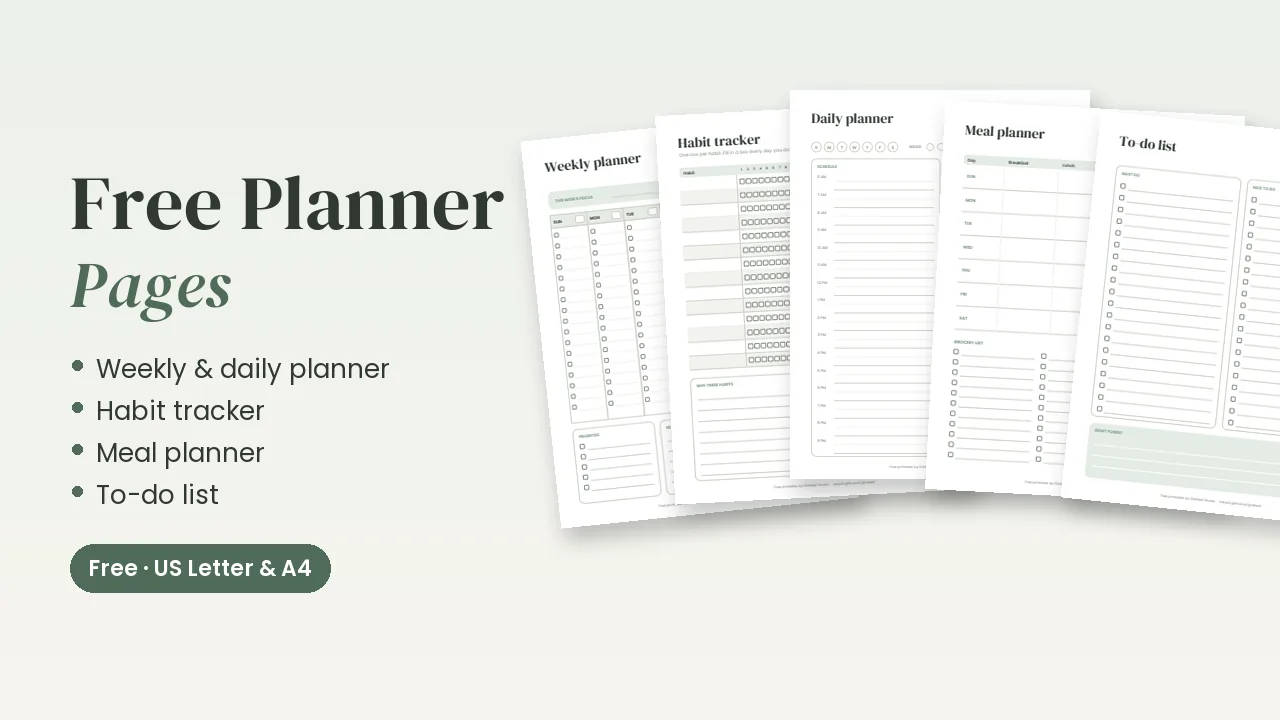
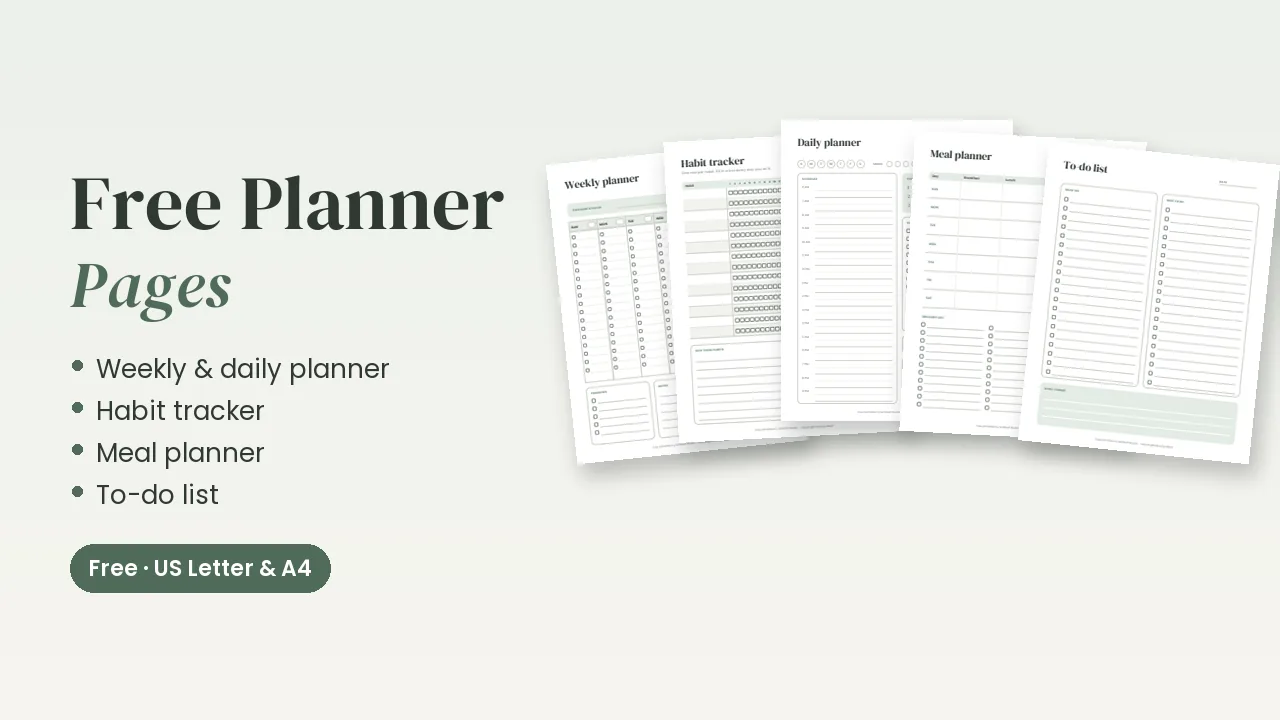
Link new products to Gumroad

Changed region(s): [[0.4062, 0.1528, 1.0, 0.7639], [0.75, 0.3361, 0.7812, 0.4278], [0.875, 0.1833, 0.9375, 0.2139]]

diff --git a/2027-printable-planner/index.html b/2027-printable-planner/index.html
@@ -12,7 +12,7 @@
 <main class="wrap"><section class="hero grid g2" style="align-items:center"><div><span class="tag">Premium printable</span><h1>2027 Printable Planner</h1>
 <p class="lead">A calm, dated planner for 2027: monthly calendars, habit trackers and 53 weekly pages. Print it at home, or use it in GoodNotes. Every page is linked.</p>
 <div class="price">$7</div>
-<div class="btns"><a class="btn" href="https://gridleafstudio.gumroad.com" rel="noopener">Get the 2027 planner</a></div>
+<div class="btns"><a class="btn" href="https://gridleafstudio.gumroad.com/l/printable2027" rel="noopener">Get the 2027 planner</a></div>
 <p class="note">Instant download · PDF · 88 pages · US Letter &amp; A4</p></div>
 <img src="/gridleaf/assets/img/printable-planner-2027-cover.webp" alt="2027 printable planner pages" loading="lazy" width="1280" height="720" class="shot"></section>
 <section class="grid g2"><div><h2>What's inside</h2><ul class="feat"><li>Hyperlinked contents page with a tap-to-open grid of all 53 weeks</li><li>2027 at a glance: tap a month or a week</li><li>2027 goals (health, career, money, relationships, growth, fun)</li><li>Birthdays &amp; important dates</li><li>12 dated monthly calendars with week tabs, focus list and notes</li><li>12 monthly goals &amp; habit tracker pages (dated, with weekdays)</li><li>53 dated weekly pages: focus, 7 day boxes and a to-do list</li><li>Lined notes and dot-grid pages</li><li>US Letter (Sunday start) and A4 (Monday start)</li></ul></div>

diff --git a/digital-notebook/index.html b/digital-notebook/index.html
@@ -12,7 +12,7 @@
 <main class="wrap"><section class="hero grid g2" style="align-items:center"><div><span class="tag">Premium template</span><h1>Digital Notebook</h1>
 <p class="lead">A hyperlinked notebook with 10 tabbed sections for school, work and projects. Jump anywhere in one tap, in GoodNotes, Notability or any PDF app.</p>
 <div class="price">$6</div>
-<div class="btns"><a class="btn" href="https://gridleafstudio.gumroad.com" rel="noopener">Get the notebook</a></div>
+<div class="btns"><a class="btn" href="https://gridleafstudio.gumroad.com/l/notebook" rel="noopener">Get the notebook</a></div>
 <p class="note">Instant download · PDF · 132 pages · 3 colorways</p></div>
 <img src="/gridleaf/assets/img/notebook-cover.webp" alt="Digital notebook on a tablet" loading="lazy" width="1280" height="720" class="shot"></section>
 <section class="grid g2"><div><h2>What's inside</h2><ul class="feat"><li>Home page with 10 section cards you can title (subjects, projects, clients...)</li><li>10 sections, each with a cover that links to its 12 pages</li><li>120 note pages: lined, grid, dot grid and blank</li><li>Side tabs on every page: Home and sections 1–10</li><li>Arrows to flip page by page inside a section</li><li>3 colorways: Sage, Blush and Midnight (dark mode)</li><li>Landscape layout made for iPad and Android tablets</li></ul></div>
